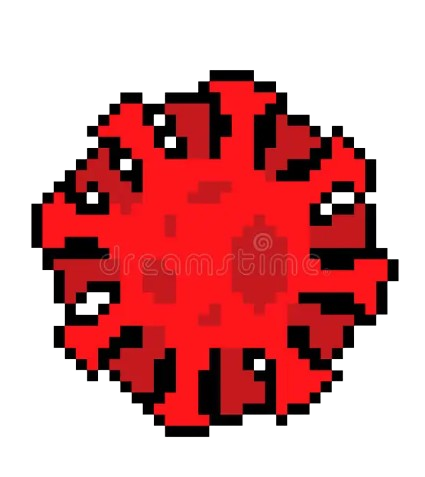
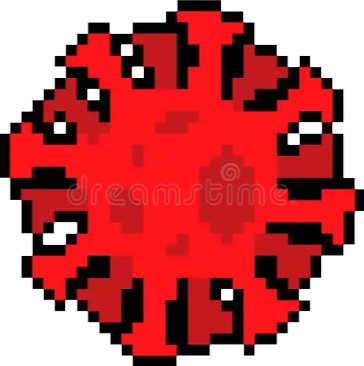
Melhorias
Melhorias na movimentação da nave, na hitbox, nos comentários, no nome da variável "hit" para "hit_obstaculo" e nas imagens "covid" e "nave"

diff --git a/jogo.py b/jogo.py
@@ -4,9 +4,9 @@ import random
 import math
 from draw import *
 
-pygame.font.init()
+pygame.font.init() #inicializar o font module (sem isso não dá para usar fontes)
 
-WIDTH, HEIGHT = 1200, 800
+WIDTH, HEIGHT = 1200, 800 #padrão: 1200 x 800
 WIN = pygame.display.set_mode((WIDTH, HEIGHT))
 pygame.display.set_caption("Nome do Jogo")
 
@@ -28,17 +28,14 @@ BG_HEIGHT = BG.get_height()
 scroll = 0
 tiles = math.ceil(WIDTH / BG_WIDTH) + 1
 
-FONT = pygame.font.SysFont("comicsans", 30)
+FONT = pygame.font.SysFont("comicsans", 30) #tipo e tamanho da fonte estocada na variável FONT
 
-OBSTACULO_WIDTH = 10
-OBSTACULO_HEIGHT = 10
+OBSTACULO_WIDTH = 35
+OBSTACULO_HEIGHT = 35
 OBSTACULO_VEL = 5
 
 
-
-
-
-
+# def main():
 
 run = True
 
@@ -46,14 +43,14 @@ player = pygame.Rect(PLAYER_WIDTH + 200, 400, PLAYER_WIDTH, PLAYER_HEIGHT)
 
 clock = pygame.time.Clock()
 
-start_time = time.time()
+start_time = time.time() #tempo que se passou desde a epoch
 elapsed_time = 0
 
-obstaculo_add_increment = 20  # 2000 milisegundos
+obstaculo_add_increment = 200  # 200 milisegundos
 obstaculo_count = 0
-
 obstaculos = []
-hit = False
+
+hit_obstaculo = False
 
 while run:
 
@@ -65,10 +62,11 @@ while run:
         scroll = 0
     # ---------------------
 
-    obstaculo_count += clock.tick(FPS)
-    elapsed_time = time.time() - start_time
+    obstaculo_count += clock.tick(FPS) #limitação de FPS
+    elapsed_time = time.time() - start_time #tempo que se passou desde que o jogo começou
 
-    if obstaculo_count > obstaculo_add_increment:
+    #Sistema de spawn de obstáculos
+    if obstaculo_count > obstaculo_add_increment: #tempo entre um obstáculo e o próximo obstáculo
         for _ in range(1):
             obstaculo_y = random.randint(0, HEIGHT - OBSTACULO_HEIGHT)
             obstaculo = pygame.Rect(WIDTH, obstaculo_y, OBSTACULO_WIDTH, OBSTACULO_HEIGHT)
@@ -94,34 +92,44 @@ while run:
     # player.y -= PLAYER_VEL
     # if keys[pygame.K_s] and player.y + PLAYER_VEL + player.height <= HEIGHT:
     # player.y += PLAYER_VEL
-    if keys[0] and player.y - PLAYER_VEL >= 0:
+    
+
+    #--borda de cima--
+    if player.y <= 10:
+        if keys[0] or PLAYER_VEL < 0:
+            PLAYER_VEL = 0
+            player.y = 10
+        else:
+            PLAYER_VEL += GRAVITY
+    #--borda de baixo--
+    elif player.y + PLAYER_HEIGHT * 1.5 >= HEIGHT:
+        if keys[0] and PLAYER_VEL <= 0:
+            PLAYER_VEL -= GRAVITY
+        else:
+            PLAYER_VEL = 0
+            player.y = HEIGHT - PLAYER_HEIGHT * 1.2
+    #--entre as bordas--
+    elif keys[0] and player.y - PLAYER_VEL >= 0:
         if PLAYER_VEL > -VEL_TERMINAL:
             PLAYER_VEL -= GRAVITY
     else:
         if PLAYER_VEL < VEL_TERMINAL:
             PLAYER_VEL += GRAVITY
-
-    if player.y + PLAYER_HEIGHT * 1.5 >= HEIGHT:
-        if keys[0]:
-            PLAYER_VEL -= GRAVITY
-        else:
-            PLAYER_VEL = 0
-            player.y = HEIGHT - PLAYER_HEIGHT * 1.5
-    elif player.y <= 0:
-        PLAYER_VEL = 1
     player.y += PLAYER_VEL
     # -----------------
 
+    #movimentação de obstáculos
     for obstaculo in obstaculos[:]:
         obstaculo.x -= OBSTACULO_VEL
         if obstaculo.x < 0 - OBSTACULO_WIDTH - 30:
             obstaculos.remove(obstaculo)
         if obstaculo.colliderect(player):
             obstaculos.remove(obstaculo)
-            hit = True
+            hit_obstaculo = True
             break
-
-    if hit:
+    
+    #hit de obstáculos
+    if hit_obstaculo:
         lost_text = FONT.render("Você perdeu!", 1, "blue")
         WIN.blit(lost_text, (WIDTH / 2 - lost_text.get_width() / 2, HEIGHT / 2 - lost_text.get_height() / 2))
         pygame.display.update()
@@ -133,3 +141,5 @@ while run:
 pygame.quit
 
 
+# if name == "main":
+# main()

diff --git a/draw.py b/draw.py
@@ -6,11 +6,11 @@ def draw(player, elapsed_time, obstaculos, FONT, WIN, NAVE, PLAYER_VEL, COVID):
 
     #rotação da nave e carregamento da imagem na tela
     NAVE2 = pygame.transform.rotate(NAVE, -PLAYER_VEL * 10)
-    WIN.blit(NAVE2, (player.x, player.y))
+    WIN.blit(NAVE2, (player.x - 10, player.y - 10))
 
-    # pygame.draw.rect(WIN, "green", player)
+    #pygame.draw.rect(WIN, "green", player) #hitbox do player
 
     for obstaculo in obstaculos:
-        # pygame.draw.rect(WIN, "yellow", obstaculo)
-        WIN.blit(COVID, (obstaculo.x, obstaculo.y))
+        #pygame.draw.rect(WIN, "yellow", obstaculo) #hitbox dos obstáculos
+        WIN.blit(COVID, (obstaculo.x - 8, obstaculo.y -8))
     pygame.display.update()
